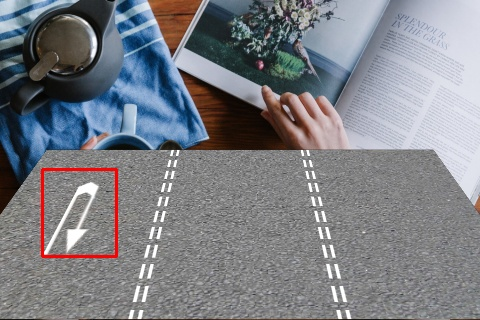
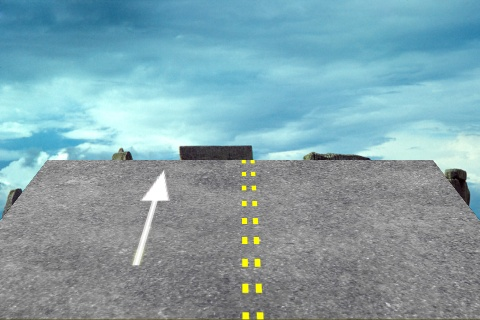
More random things....

diff --git a/src/main.py b/src/main.py
@@ -80,6 +80,12 @@ def main():
     MINCX, MAXCX = POS["MIN_X"], POS["MAX_X"]
     MINCY, MAXCY = POS["MIN_Y"], POS["MAX_Y"]
 
+    SEP = json_file["SEP_SETTINGS"]
+    MINS_WID, MAXS_WID = SEP["MIN_WID"], SEP["MAX_WID"]
+    MIND_SIZ, MAXD_SIZ = SEP["MIN_DOT_SIZ"], SEP["MAX_DOT_SIZ"]
+    MIND_DIS, MAXD_DIS = SEP["MIN_DOT_DIS"], SEP["MAX_DOT_DIS"]
+    MIN_XDIS, MAX_XDIS = SEP["MIN_XDIST"], SEP["MAX_XDIST"]
+
     SEED = json_file["SEED"]
 
     # Loading the roadmarks templates:
@@ -99,11 +105,15 @@ def main():
     # Defining the lanes in the road
     img.defineLanes(ROAD_LANES, LANE_VARIATION)
 
+    # Defining the separators:
+    separator_settings = img.getRandomSeparator(MINS_WID, MAXS_WID, MIND_SIZ, MAXD_SIZ,
+                                                MIND_SIZ, MAXD_SIZ, MIN_XDIS, MAX_XDIS)
+
     road = img.getRoad()
     # Inserting the lanes divisions in the road:
     for i in range(1, ROAD_LANES):
         if i > 0:
-            overlay = road.drawSeparator(i - 1, overlay)
+            overlay = road.drawSeparatorByTuple(i - 1, overlay, separator_settings)
 
     # Getting random background:
     background_filename = img.randomBackground()
@@ -139,7 +149,9 @@ def main():
     output_img = blend(bg_img, output_img)
 
     # Drawing bounding box around the template:
-    draw_bbox(output_img, tracker.getLocation(0), RED) # Must change later
+    # draw_bbox(output_img, tracker.getLocation(0), RED) # Must change later
+
+    # TODO: FIX THE TRACKER
 
     # Saving image:
     save_image(output_img, path=DESTINY)

diff --git a/src/roadimage.py b/src/roadimage.py
@@ -93,3 +93,32 @@ class RoadImage:
     def getRandomLane(self):
         lanes = len(self.road.lanes)
         return random.randint(0, lanes-1)
+
+    def getRandomSeparator(self, minwidth, maxwidth, mindotsize, maxdotsize, mindotdist, maxdotdist, minxdist, maxxdist):
+
+        # Defining colors:
+        colors = [
+                    (255, 255, 255), # WHITE
+                    (255, 255,   0), # YELLOW
+                    (128, 128,   0)  # DARK YELLOW
+                 ]
+        
+        # Getting random color:
+        color = colors[random.randint(0,len(colors)-1)]
+
+        # Getting random dot_size:
+        dot_size = random.randint(mindotsize, maxdotsize)
+
+        # Getting random dot_dist:
+        dot_dist = random.randint(mindotdist, maxdotdist)
+
+        # Getting random x_dist:
+        x_dist = random.randint(minxdist, maxxdist)
+
+        # Getting random width:
+        width = random.randint(minwidth, maxwidth)
+
+        # Getting random true or false:
+        is_true = bool(random.getrandbits(1))
+
+        return (width, color, is_true, dot_size, dot_dist, x_dist)

diff --git a/src/road.py b/src/road.py
@@ -36,3 +36,8 @@ class Road:
         new_layer = lane2.drawLeftSeparator(new_layer, width=width, color=color, dotted=dotted, dot_size=dot_size, dot_distance=dot_distance, x_dist=x_dist)
 
         return new_layer
+
+    def drawSeparatorByTuple(self, index, layer, settings):
+        width, color, dotted, dot_size, dot_distance, x_dist = settings
+        return self.drawSeparator(index, layer, width=width, color=color, dotted=dotted,
+                            dot_size=dot_size, dot_distance=dot_distance, x_dist=x_dist)
